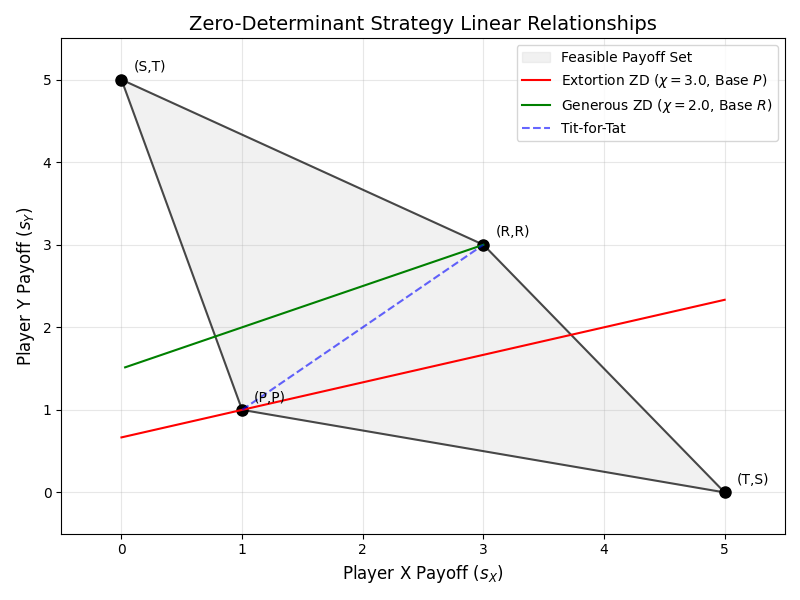
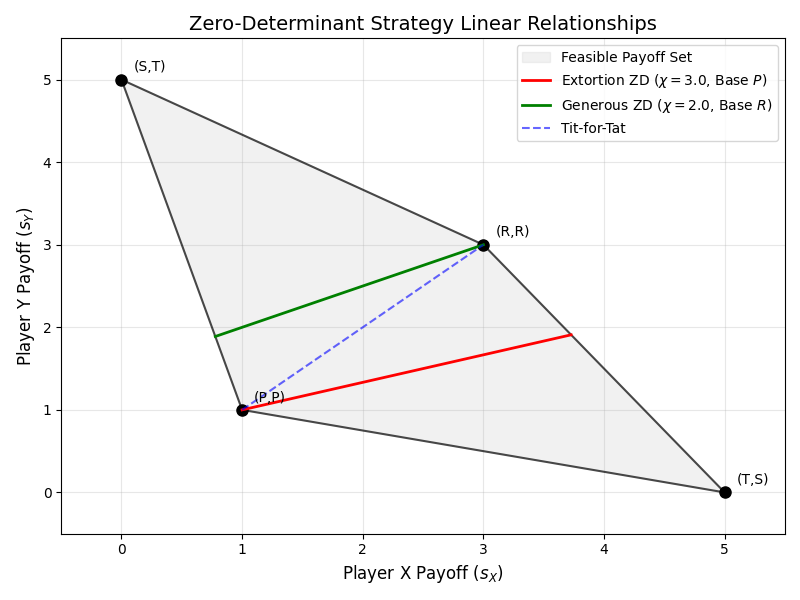
Add files via upload

diff --git a/section2.py b/section2.py
@@ -121,11 +121,6 @@ if __name__ == "__main__":
     ax.plot(x_vals_gen, y_vals_gen, 'g-', linewidth=2,
             label=f'Generous ZD ($\\chi={chi_gen}$, Base $R$)')
 
-    # Filter
-    lim_gen = (x_vals_gen <= T) & (x_vals_gen >= S)
-    ax.plot(x_vals_gen[lim_gen], y_vals_gen[lim_gen], 'g-',
-            label=f'Generous ZD ($\\chi={chi_gen}$, Base $R$)')
-
     # Plot Tit-for-Tat
     ax.plot([P, R], [P, R], 'b--', alpha=0.6, label='Tit-for-Tat')
 
